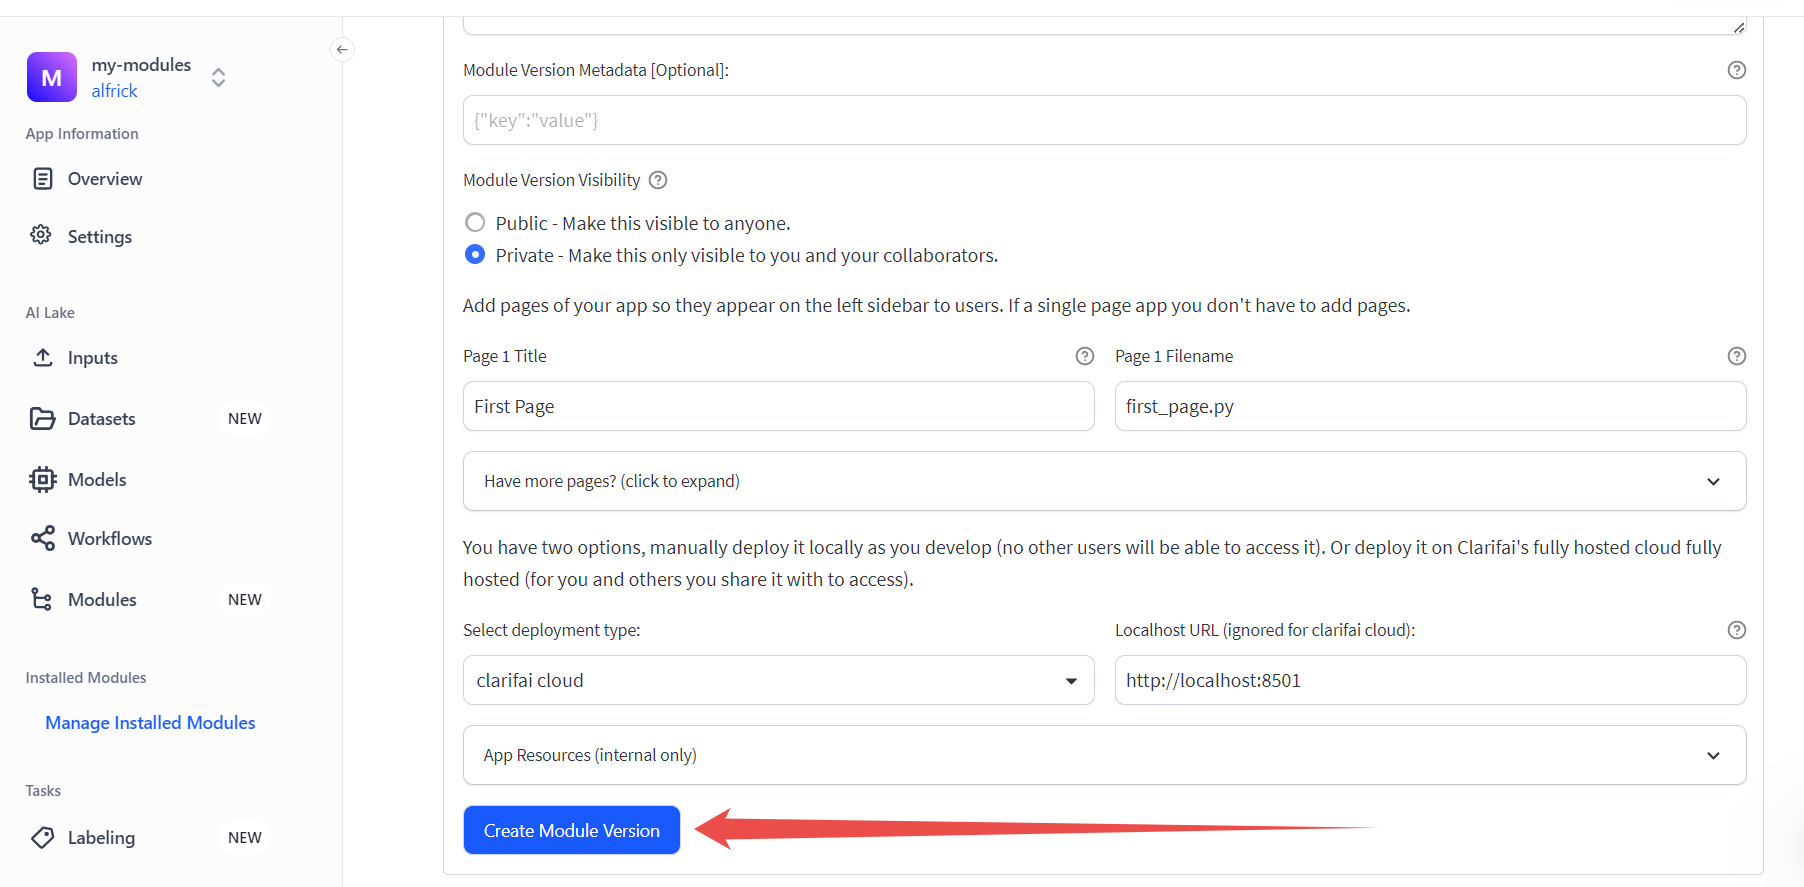
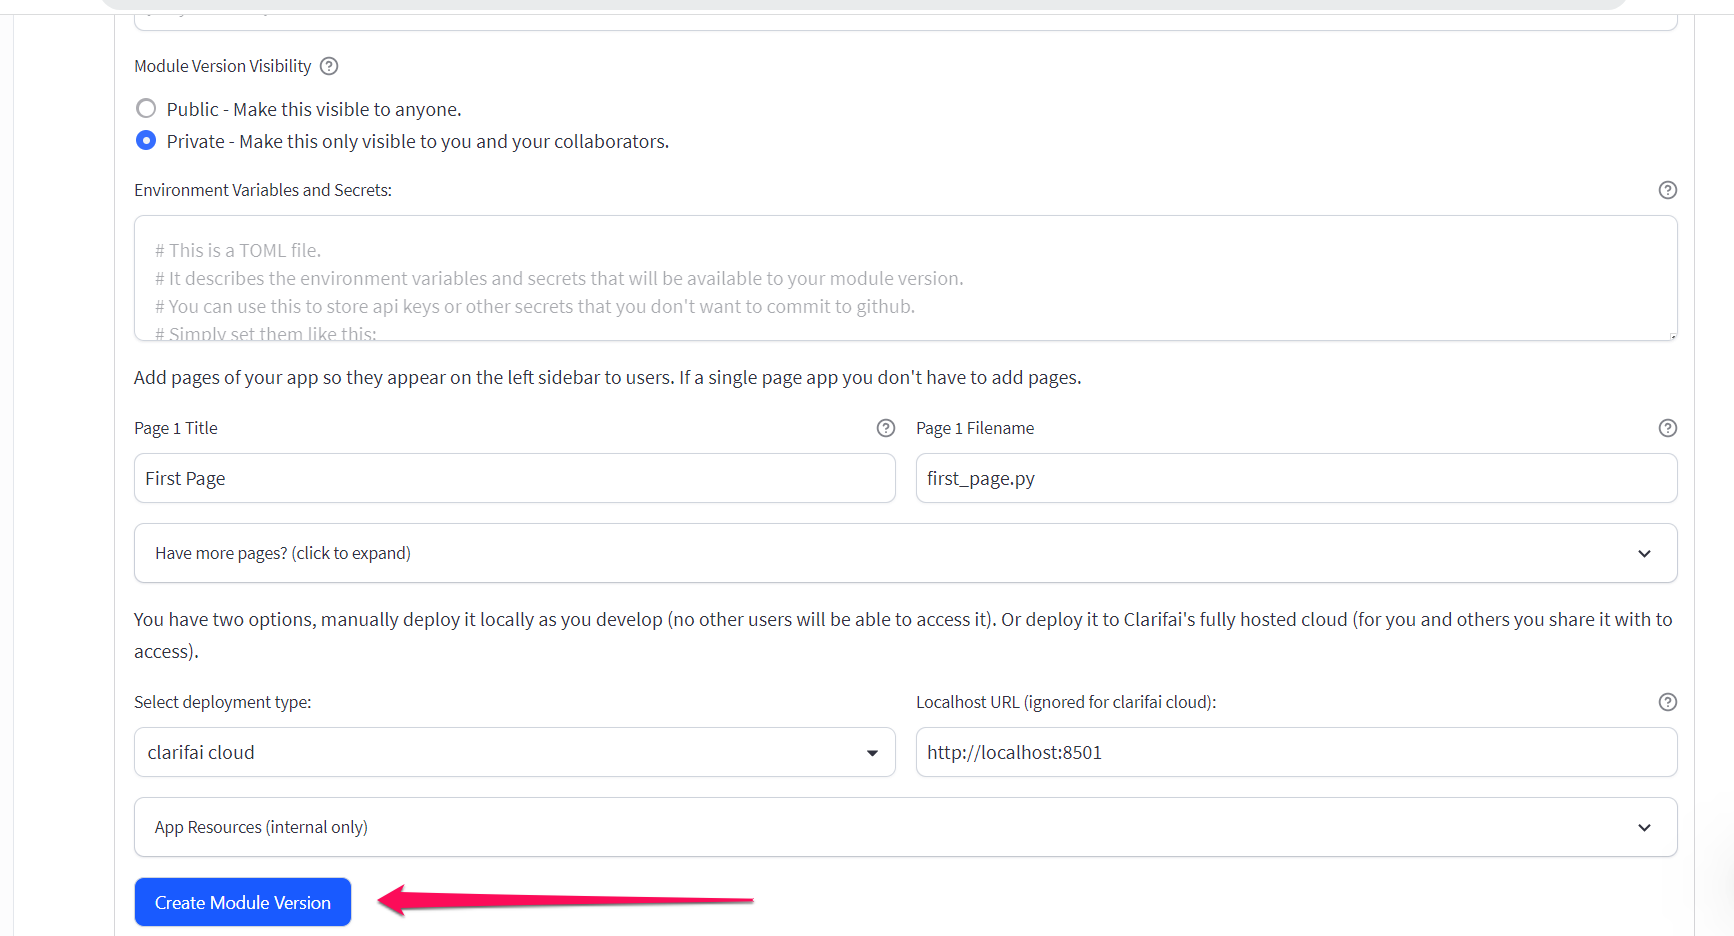
updated model pages

diff --git a/code_snippets/api-guide/model/create_get_update_delete/js/update_model_name_configuration_2.html b/code_snippets/api-guide/model/create_get_update_delete/js/update_model_name_configuration_2.html
@@ -12,26 +12,23 @@
     const APP_ID = 'YOUR_APP_ID_HERE';
     // Change these to update your own model 
     const MODEL_ID = 'petsID';
-    const MODEL_VERSION_ID = 'b0b89c973e5d4b6d9599ce13da04b894'
+    const MODEL_VERSION_ID = 'b0b89c973e5d4b6d9599ce13da04b894';
+    const MINIMUM_VALUE = 0.95;
 
     ///////////////////////////////////////////////////////////////////////////////////
     // YOU DO NOT NEED TO CHANGE ANYTHING BELOW THIS LINE TO RUN THIS EXAMPLE
     ///////////////////////////////////////////////////////////////////////////////////
 
     const raw = JSON.stringify({
-        "user_app_id": {
-            "user_id": USER_ID,
-            "app_id": APP_ID
-        },
         "action": "overwrite",
         "model_versions":[{
             "id": MODEL_VERSION_ID, 
             "output_info": {
-                "output_config": {
-                    "concepts_mutually_exclusive": true
-                }
-              }
-            }]        
+                "params": {
+                    "min_value": MINIMUM_VALUE
+                }  
+            }
+        }]        
     });
 
     const requestOptions = {
@@ -43,7 +40,7 @@
         body: raw
     };
 
-    fetch(`https://api.clarifai.com/v2/models/${MODEL_ID}/versions`, requestOptions)
+    fetch(`https://api.clarifai.com/v2/users/${USER_ID}/apps/${APP_ID}/models/${MODEL_ID}/versions`, requestOptions)
         .then(response => response.text())
         .then(result => console.log(result))
         .catch(error => console.log('error', error));

diff --git a/code_snippets/api-guide/model/create_get_update_delete/node/update_model_name_configuration_2.js b/code_snippets/api-guide/model/create_get_update_delete/node/update_model_name_configuration_2.js
@@ -11,7 +11,8 @@ const PAT = 'YOUR_PAT_HERE';
 const APP_ID = 'YOUR_APP_ID_HERE';
 // Change these to update your own model 
 const MODEL_ID = 'petsID';
-const MODEL_VERSION_ID = 'b0b89c973e5d4b6d9599ce13da04b894'
+const MODEL_VERSION_ID = 'b0b89c973e5d4b6d9599ce13da04b894';
+const MINIMUM_VALUE = 0.95;
 
 /////////////////////////////////////////////////////////////////////////////
 // YOU DO NOT NEED TO CHANGE ANYTHING BELOW THIS LINE TO RUN THIS EXAMPLE
@@ -36,10 +37,10 @@ stub.PatchModelVersions(
         model_versions:[{
             "id": MODEL_VERSION_ID, 
             "output_info": {
-                "output_config": {
-                    "concepts_mutually_exclusive": true
-                }
-              }
+                "params": {
+                    "min_value": MINIMUM_VALUE
+                } 
+            }
         }],
     },
     metadata,

diff --git a/code_snippets/api-guide/model/create_get_update_delete/py/update_model_name_configuration_2.py b/code_snippets/api-guide/model/create_get_update_delete/py/update_model_name_configuration_2.py
@@ -7,9 +7,10 @@ USER_ID = 'YOUR_USER_ID_HERE'
 # Your PAT (Personal Access Token) can be found in the portal under Authentification
 PAT = 'YOUR_PAT_HERE'
 APP_ID = 'YOUR_APP_ID_HERE'
-# Change these to update your own model 
+# Change these to update your own model
 MODEL_ID = 'petsID'
 MODEL_VERSION_ID = 'b0b89c973e5d4b6d9599ce13da04b894'
+MINIMUM_VALUE = 0.95
 
 ##########################################################################
 # YOU DO NOT NEED TO CHANGE ANYTHING BELOW THIS LINE TO RUN THIS EXAMPLE
@@ -18,6 +19,7 @@ MODEL_VERSION_ID = 'b0b89c973e5d4b6d9599ce13da04b894'
 from clarifai_grpc.channel.clarifai_channel import ClarifaiChannel
 from clarifai_grpc.grpc.api import resources_pb2, service_pb2, service_pb2_grpc
 from clarifai_grpc.grpc.api.status import status_code_pb2
+from google.protobuf.struct_pb2 import Struct
 
 channel = ClarifaiChannel.get_grpc_channel()
 stub = service_pb2_grpc.V2Stub(channel)
@@ -26,18 +28,21 @@ metadata = (('authorization', 'Key ' + PAT),)
 
 userDataObject = resources_pb2.UserAppIDSet(user_id=USER_ID, app_id=APP_ID)
 
+params = Struct()
+params.update({
+    "min_value": MINIMUM_VALUE
+})
+
 patch_models_response = stub.PatchModelVersions(
     service_pb2.PatchModelVersionsRequest(
         user_app_id=userDataObject,
         action="overwrite",
         model_id=MODEL_ID,
         model_versions=[
-            resources_pb2.ModelVersion(  
-                id=MODEL_VERSION_ID,       
+            resources_pb2.ModelVersion(
+                id=MODEL_VERSION_ID,
                 output_info=resources_pb2.OutputInfo(
-                    output_config=resources_pb2.OutputConfig(
-                        concepts_mutually_exclusive=True                        
-                    )
+                        params=params
                 )
             )
         ]

diff --git a/docs/portal-guide/modules/create-install.md b/docs/portal-guide/modules/create-install.md
@@ -28,7 +28,7 @@ For this example, we'll use [this Clarifai app module template](https://github.c
 
 - Your Streamlit app should have a file named `app.py` because we support integrating with Streamlit apps only from the `app.py` entry point. It also serves as a central configuration file for your application. The file plays a crucial role in defining the behavior and structure of your Streamlit app integrated into the Clarifai platform. 
 
-- After installing a module, the markdown notes for the module overview page will be created from the README.md file. Also, the left sidebar child items that appear under the **Installed Modules** category will be constructed from your Streamlit’s app pages or folder. If your Streamlit app does not have them, it will be constructed as a single-page app with no sidebar subpages.
+- After installing a module, the markdown notes for the module overview page on the Clarifai portal will be created from the README.md file. Also, the left sidebar child items that appear under the **Installed Modules** category will be constructed from your Streamlit’s app pages or folder. If your Streamlit app does not have them, it will be constructed as a single-page app with no sidebar subpages.
 
 :::
 
@@ -154,6 +154,11 @@ Optionally, you can provide a JSON blob of metadata to attach to the module vers
 #### Module Version Visibility
 
 You can choose to make the module version public or private. Public module versions are visible to everyone in the Community. Private module versions are only visible to you and your collaborators.
+
+#### Environment Variables and Secrets
+
+Optionally, you can set environment variables and secrets for your module version. 
+
 
 #### Sidebar Page Title
 

diff --git a/docs/api-guide/model/create-get-update-and-delete.md b/docs/api-guide/model/create-get-update-and-delete.md
@@ -226,7 +226,7 @@ You can repeat this operation as often as you like. By adding more images with c
 
 - The **PostModelVersions** endpoint kicks off training and creates a new model version. You can also add concepts to a model when creating the model version—and only if the model type supports it as defined in the model type parameters.
 
-- You can use the **PostModelVersions** endpoint to give information specific to a model version. All the `*_info` fields—such as `output_info`, `input_info`, `train_info`, and `import_info`—are available on this endpoint. This minimizes the confusion and difficulty of maintaining these fields. You can patch model specific fields without worrying about other model version fields being affected.
+- You can use the **PostModelVersions** endpoint to give information specific to a model version. All the `*_info` fields—such as `output_info`, `input_info`, `train_info`, and `import_info`—are available on this endpoint. 
 
 - You cannot remove the training concepts from a model version. However, you can edit the additional `output_info.param` concept options if they are defined in the model type.
 
@@ -514,7 +514,7 @@ Let's use the **PatchModels** endpoint to change the model name to `newname`.
 
 ### Update Model Configuration
 
-Let's use the **PatchModelVersions** endpoint to set the model's configuration to have `concepts_mutually_exclusive=true`.
+Let's use the **PatchModelVersions** endpoint to configure the minimum probability threshold for the outputs we want to view from the model. We can modify the `min_value` parameter available for this model type to filter the outputs to see only the concepts with a probability score of 0.95 or higher.
 
 <Tabs>
 

diff --git a/docs/portal-guide/psearch/prank.md b/docs/portal-guide/psearch/prank.md
@@ -5,7 +5,7 @@ sidebar_position: 2
 
 # Smart Object Search
 
-**Use vector search to sort, rank, and retrieve annotated objects within imagesr**
+**Use vector search to sort, rank, and retrieve annotated objects within images**
 <hr />
 
 Smart Object Search, also called localized search, is our proprietary feature that uses deep learning techniques to sort, rank, and retrieve annotated objects (bounding boxes) within images based on their content and similarity. 
